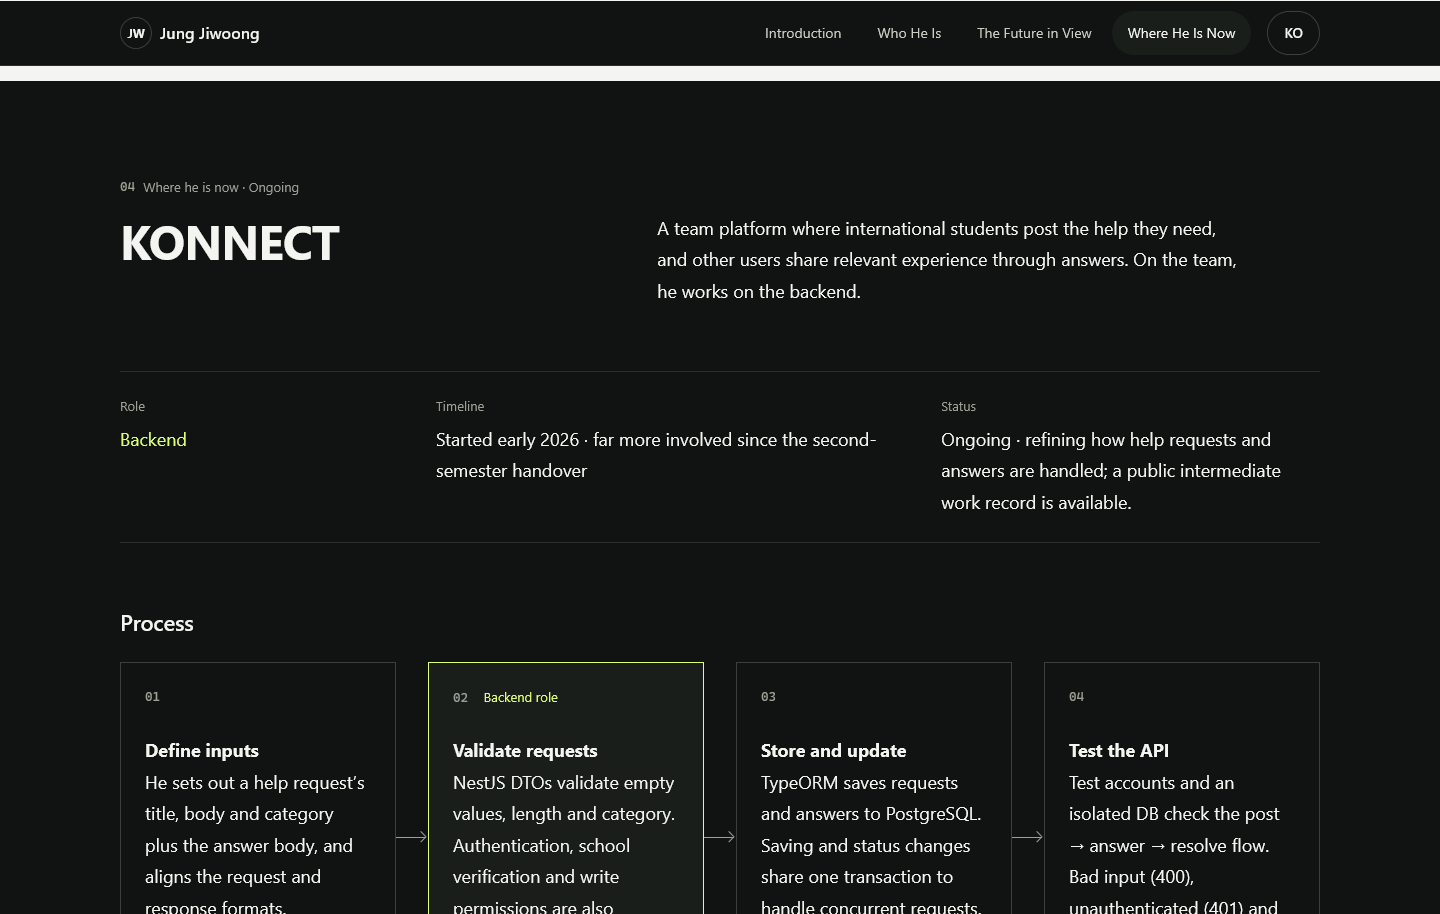
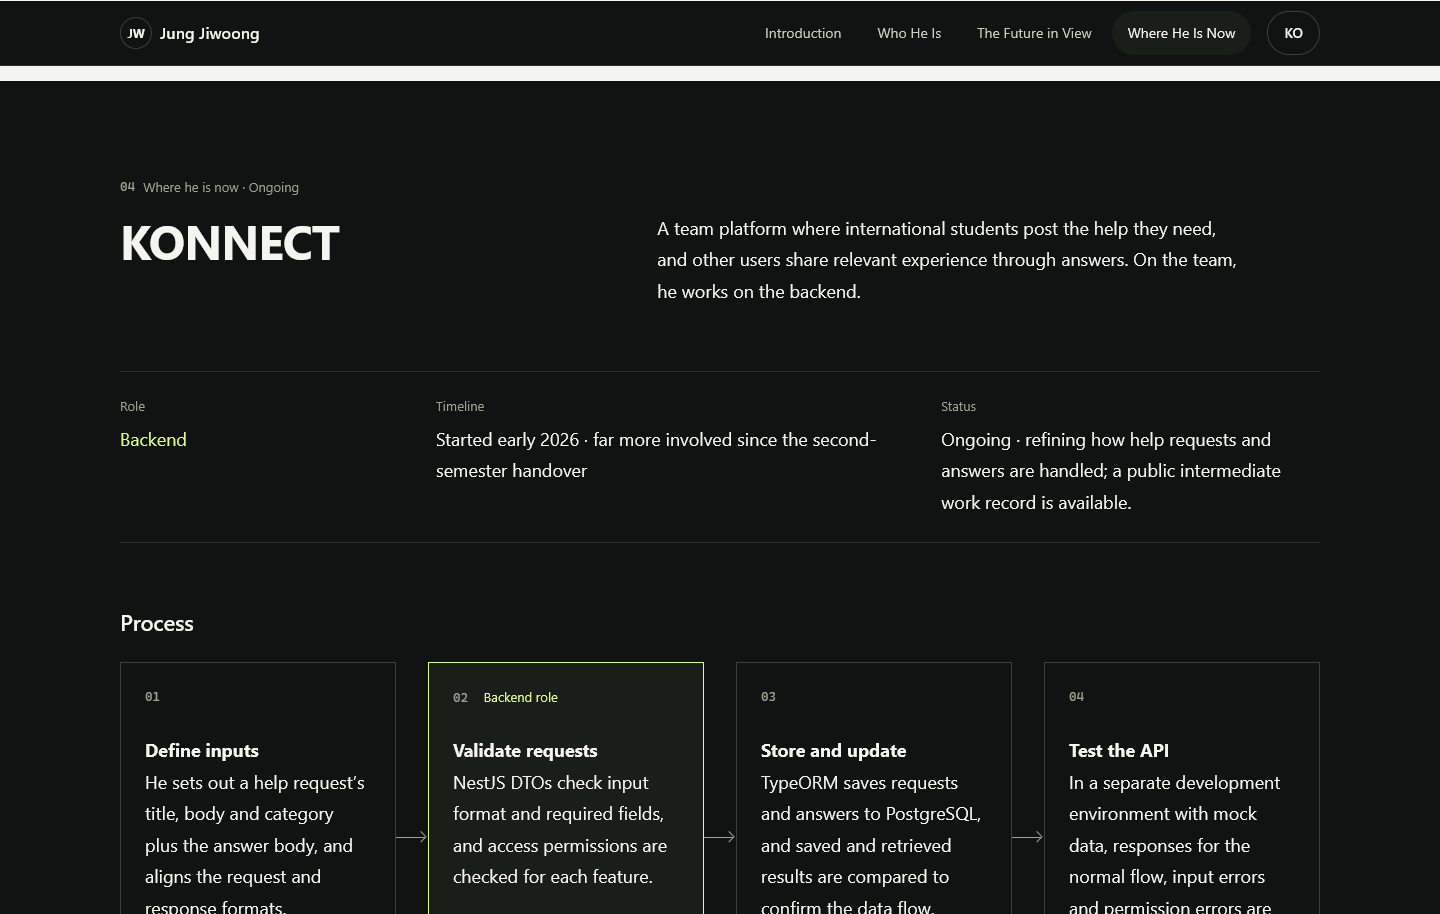
docs(T08,T09/I019): refresh minimized public evidence and review results

Changed region(s): [[0.3125, 0.8271, 0.4688, 1.0], [0.75, 0.8578, 0.9062, 1.0], [0.5312, 0.919, 0.6875, 1.0]]

diff --git a/docs/verification.md b/docs/verification.md
@@ -1,5 +1,11 @@
 # 실제 기능 검증
 
+## 공개 내용 최소화 I019 — 2026-11-05
+
+사용자가 공개 내용의 공격 경로·중요정보 확인을 요청했다. 현재 텍스트·PDF와 과거 텍스트/PDF를 패턴 검색하고 활동 문서·보고서를 읽어 대조했다. 실제 인증정보·운영 접속 경로·공격 절차는 확인하지 못했으나 불필요한 세부 정책 설명을 줄였다. 사이트·활동 문서·보고서·AI 기록과 JSON을 갱신하고 이전 카드 전후 그림을 현재 공개 파일에서 제외했다. 과거 Git 이력을 삭제하지 않았으며 앱 자체를 공격·수정하거나 새 KONNECT 테스트를 실행하지 않았다.
+
+공개5b6cd48에서 기존82개와 상세/공개범위8개, 총90개 브라우저 검사가 통과했다. 두 언어 네 폭에서 정리 대상 문구 부재·선택 학습 행동·도구 사용 설명·기록 링크·정렬을 확인했다. 점진적 향상17개도 통과했다. 새 공개 검사 JSON에는 작업 문단을 복사하지 않고 단계 수·검사 결과·정렬 좌표를 보존한다. 최종 PDF도 정리 대상 문구 부재·필수 제출 정보·SHA·링크·전체 페이지 배치를 검수한다.
+
 ## 구체적 처리 방식·학습 행동·중간 기록 — 2026-11-05 후속 검증
 
 사용자가 선택한 도움 API 정상·입력 오류·권한 오류 테스트 작성 계획을 목표·다음 행동으로 연결했다. #current는 입력 형식→NestJS 검증·권한→PostgreSQL 트랜잭션→로컬 정상/실패 확인의 네 단계로 설명한다. docs/tasks/T03.md를 실제 구현·기존 검증을 대조한 공개 중간 기록으로 연결했고 공개 저장소의 문서 응답200과 내용을 확인했다. KONNECT 코드·DB·테스트는 이번에 변경하거나 실행하지 않았다.

diff --git a/docs/issues/I019.md b/docs/issues/I019.md
@@ -1,6 +1,8 @@
 # I019 — 공개 활동 설명의 내부 정책 상세 최소화
 
-상태: 검토·수정 전 기록. 2026-11-05 KST.
+상태: 현행 공개 내용 수정·재검증 완료. 2026-11-05 KST. 발견 기록: 540b988, 본문 수정: 5b6cd48.
+
+현재 활동 문서·두 언어 HTML·보고서 원문·AI 기록에서 불필요한 세부 정책을 줄였다. 이전 카드 그림은 현재 추적 파일에서 제외했고 JSON에는 작업 본문 대신 단계 수·검사 결과·좌표만 남긴다. 공개5b6cd48에서 브라우저82개+상세/공개범위8개=90개와 점진적 향상17개가 통과했다. 두 언어 네 폭에서 정리 대상 문구가 없고 학습 행동·기록 링크·정렬이 유지되는 것을 확인했다. 텍스트·PDF 재검색에서도 실제 인증정보·운영 접속 경로는 발견하지 못했다. 과거 예제 접속 문자열은 예제값임을 분리해 판단했다. 최종 제출 PDF는 마지막 SHA로 다시 생성·검수한다.
 
 사용자가 공개 내용에 공격 경로나 중요한 정보가 들어갔는지 확인·수정하도록 요청했다. 현재 추적 텍스트107개와 PDF9개, 도달 가능한 과거 텍스트·PDF blob993개를 검색하고 활동 문서·사이트·보고서를 읽어 대조했다. 실제 인증정보·운영 접속 주소·서비스 공격 절차는 확인하지 못했다. 과거 원본 테마의 로컬 DB 접속 예시는 예제 계정·예제 암호였다. 자동 패턴 검색은 모든 종류의 비밀을 검출한다는 보장이 아니며 앱 자체의 보안 검증이 아니다.
 

diff --git a/docs/tasks/T09.md b/docs/tasks/T09.md
@@ -4,6 +4,8 @@
 
 ## 공개 정보 최소화 — 2026-11-05 I019
 
+공개 수정본5b6cd48에서90개+점진적 향상17개를 재검증하고 새 그림·JSON을 보존했다. 공개범위 검사8개에서 정리 대상 문구가 없음을 확인하며 이전 작업 문단을 JSON에 복사하지 않는다. 공개 텍스트·과거 기록 검색 결과 실제 운영 인증정보·접속 경로는 발견하지 못했고 과거 테마의 예제값은 실제 정보와 구분했다.
+
 사용자의 보안·민감정보 확인 요청에 따라 현재 공개 텍스트·PDF와 과거 텍스트/PDF를 검색하고 문서 내용을 검토했다. 실제 운영 인증정보·접속 경로·공격 절차는 확인하지 못했으나 불필요한 내부 정책 상세를 사이트·활동 기록·보고서·AI 기록에서 줄인다. 이전 본문이 복사된 JSON과 이전 카드 그림도 현재 공개 범위에서 제외하고 새 화면·검사 결과로 갱신한다. 과제의 실제 작업 설명·중간 기록·선택한 학습 행동과 제출용 필수 개인정보는 유지한다. 과거 Git 커밋은 보존한다.
 
 ## 설명 구체화·학습 행동·중간 기록 — 2026-11-05 후속 요청
